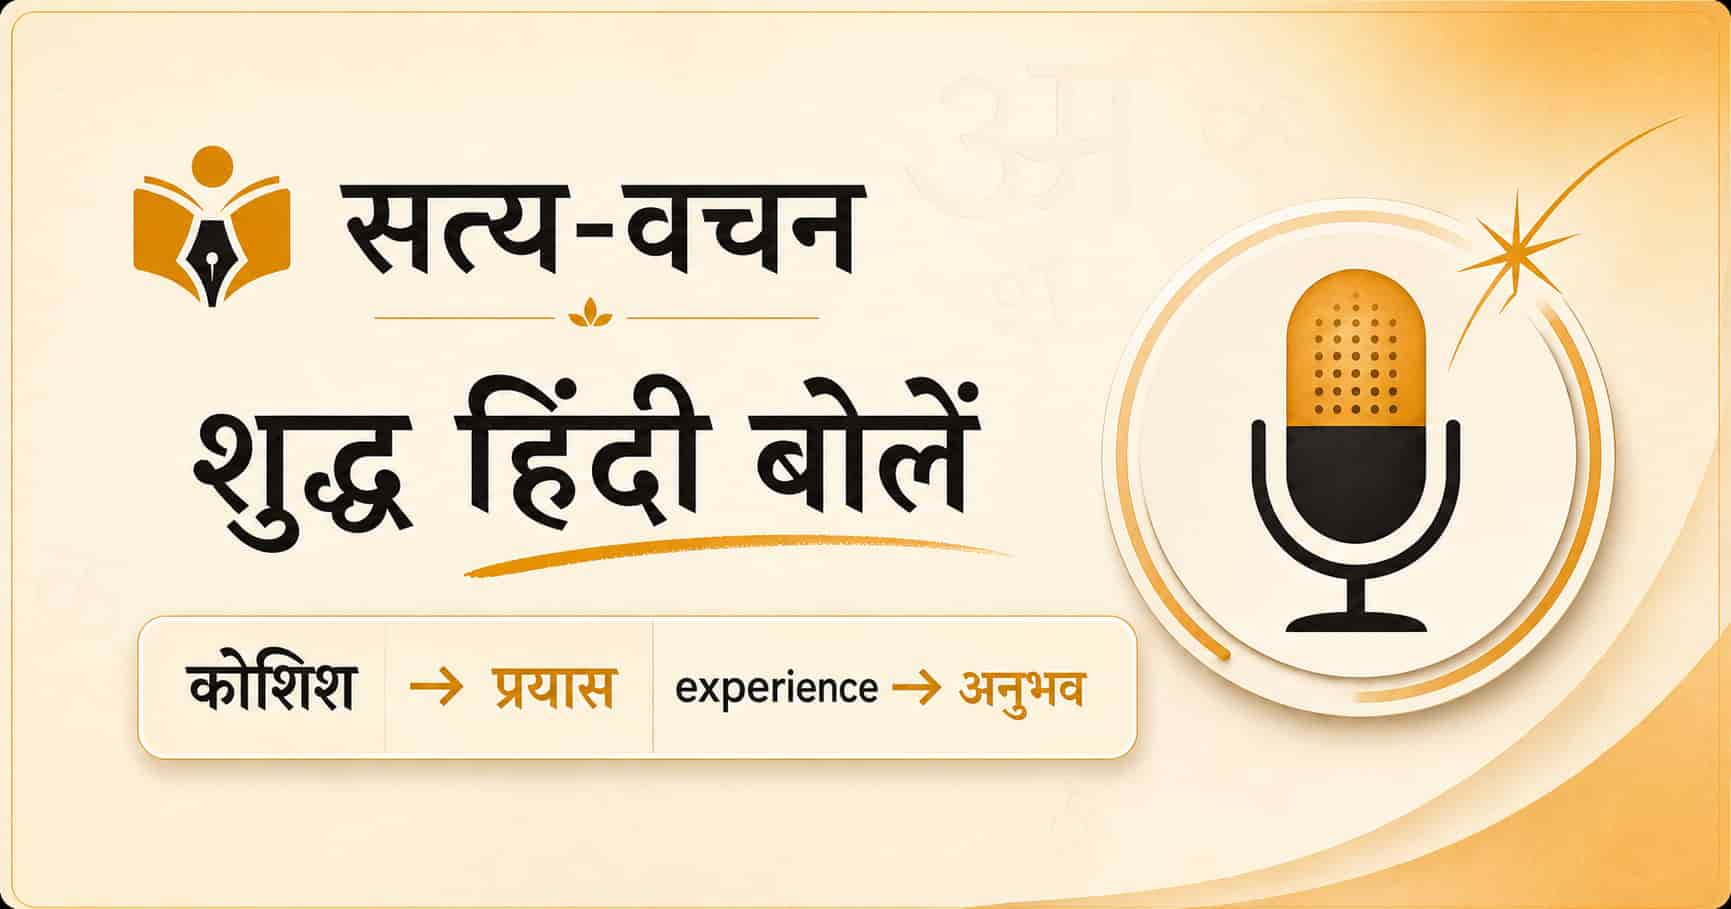
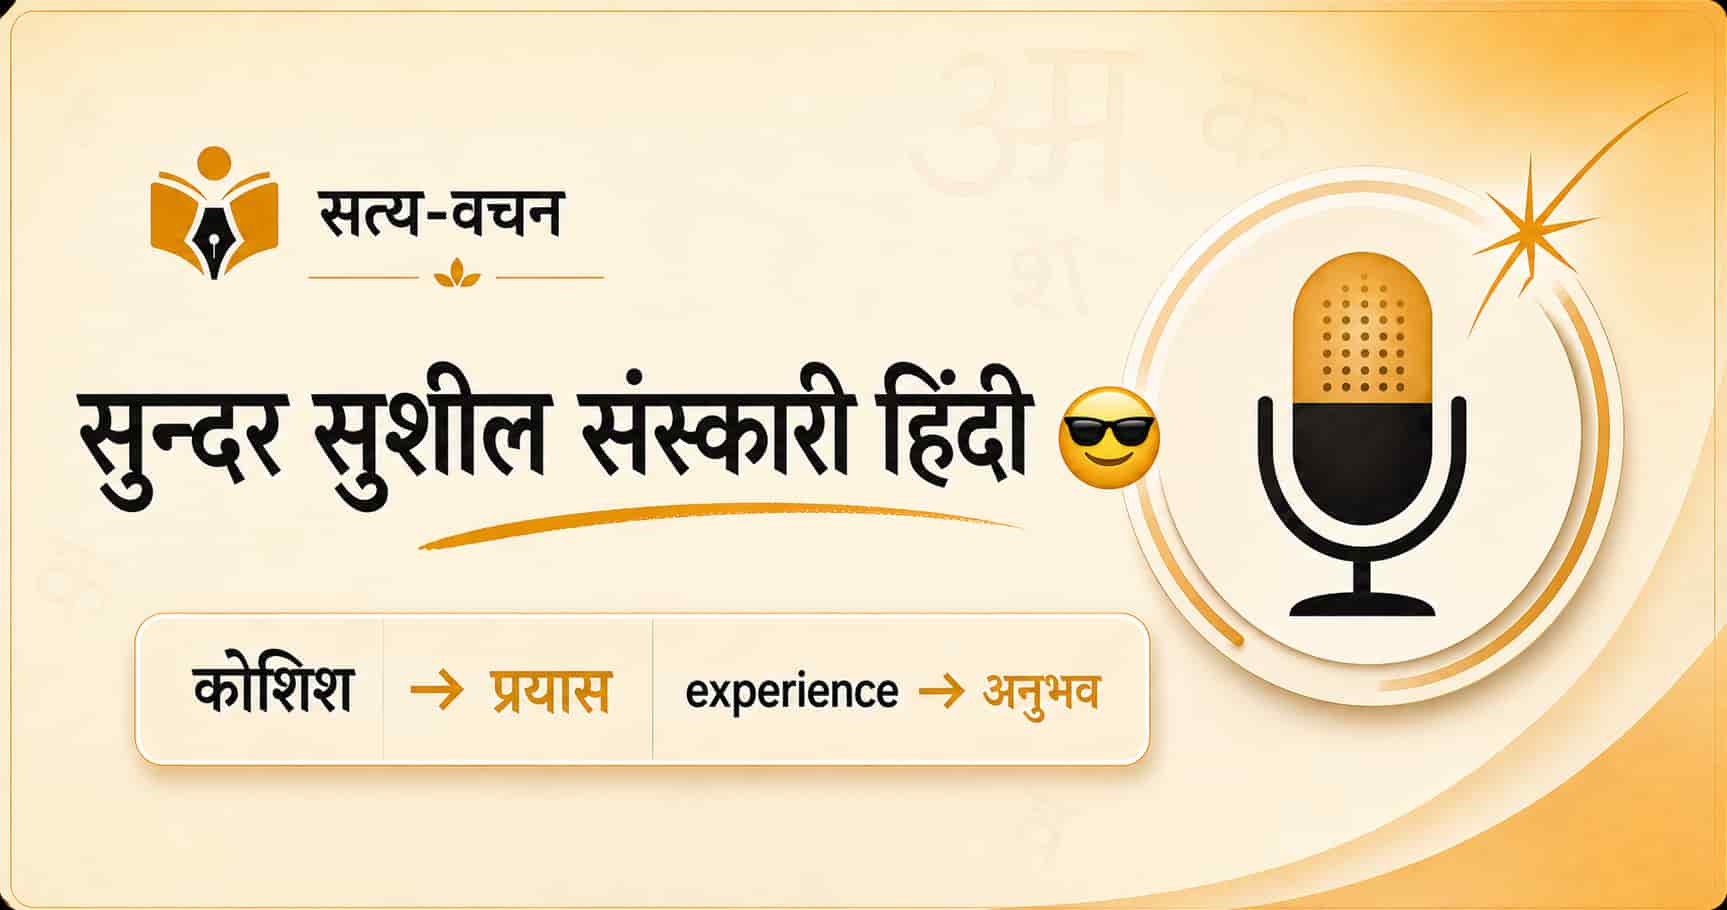
updated the README file

diff --git a/README.md b/README.md
@@ -1,5 +1,7 @@
 # Satya-Vachan
 
+![Satya-Vachan application banner](public/application-banner.jpg)
+
 Satya-Vachan is an AI-powered Hindi expression coach for fluent Hindi speakers who want to make everyday Hindi sound more elegant, articulate, and graceful.
 
 ## Local Development
@@ -7,7 +9,7 @@ Satya-Vachan is an AI-powered Hindi expression coach for fluent Hindi speakers w
 1. Install dependencies:
 
    ```bash
-   npm install
+   pnpm install
    ```
 
 2. Create a local environment file:
@@ -48,7 +50,7 @@ Satya-Vachan is an AI-powered Hindi expression coach for fluent Hindi speakers w
 4. Start the app:
 
    ```bash
-   npm run dev
+   pnpm dev
    ```
 
 The app's static screens, localStorage progress, learned words, and typed fallback flows still render without `OPENAI_API_KEY`. AI transcription, transformation, challenge validation, and text-to-speech return a graceful unavailable state until the key is configured.
@@ -90,11 +92,11 @@ tracing if users may submit other sensitive material in their Hindi practice.
 ## Scripts
 
 ```bash
-npm run dev
-npm run lint
-npm run typecheck
-npm run build
-npm run start
+pnpm dev
+pnpm lint
+pnpm typecheck
+pnpm build
+pnpm start
 ```
 
 ## Deployment Readiness Checklist